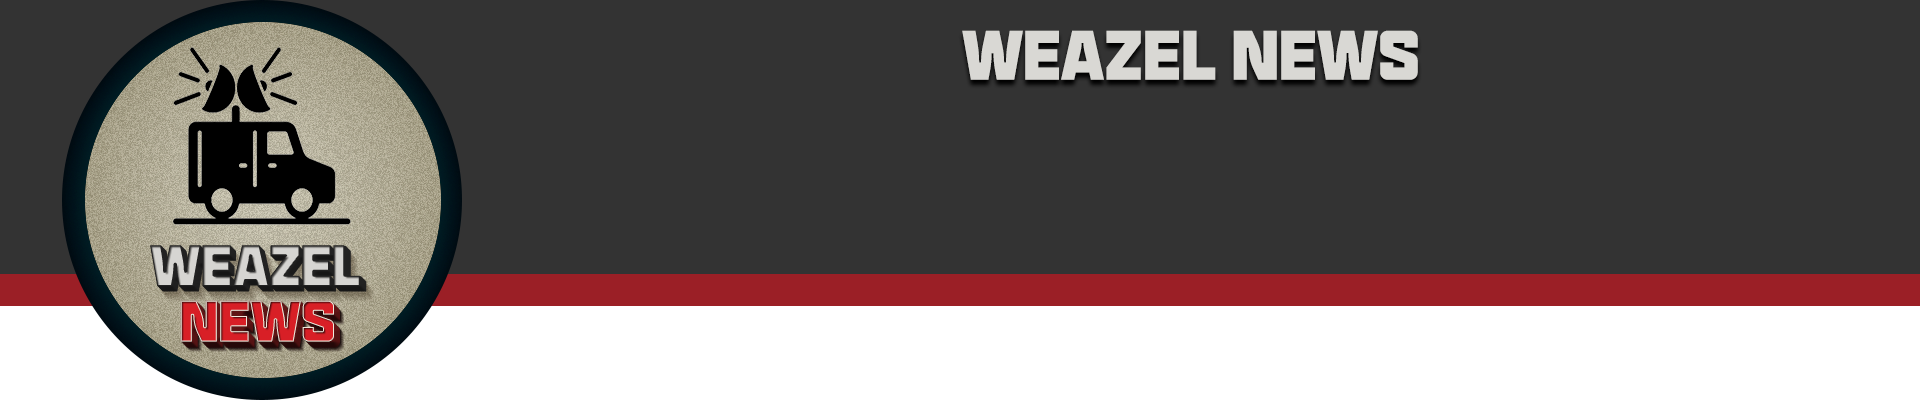
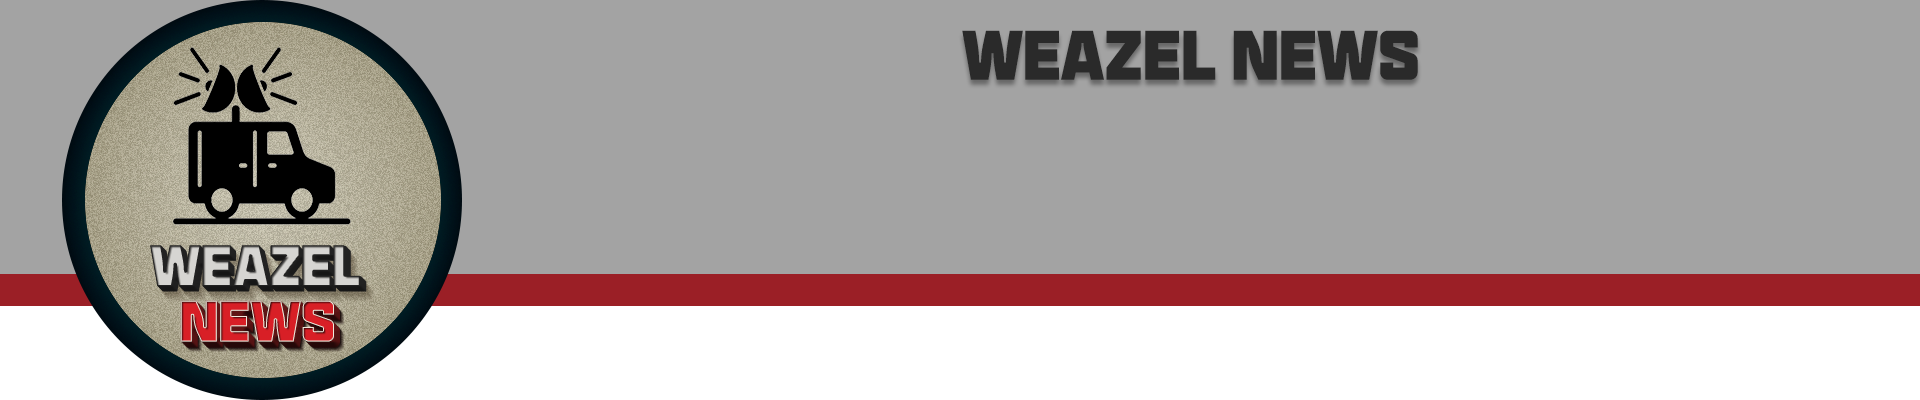
update

diff --git a/js/header.js b/js/header.js
@@ -10,10 +10,11 @@ onload = () => {
   canvas.height = image.naturalHeight;
   ctx.drawImage(image, 0, 0);
   ctx.textAlign = 'center';
-  ctx.fillStyle = '#d9d8d4';
+  ctx.fillStyle = '#2a2a2a';
+  // a3a3a3
   // Draw cached Text
   ctx.shadowOffsetY = 5;
-  ctx.shadowColor = 'rgba(0,0,0, 1)';
+  ctx.shadowColor = '#696969';
   ctx.shadowBlur = 5;
   // Text starts centered at 1190
   ctx.font = '72px BTBrikRegular';
@@ -25,11 +26,11 @@ onload = () => {
 input1.addEventListener('keyup', () => {
   ctx.clearRect(0, 0, canvas.width, canvas.height);
   ctx.shadowOffsetY = 0;
-  ctx.shadowColor = 'rgba(0,0,0, 1)';
+  ctx.shadowColor = '#000';
   ctx.shadowBlur = 5;
   ctx.drawImage(image, 0, 0);
   ctx.shadowOffsetY = 5;
-  ctx.shadowColor = 'rgba(0,0,0, 1)';
+  ctx.shadowColor = '#696969';
   ctx.shadowBlur = 5;
   ctx.font = '72px BTBrikRegular';
   ctx.fillText(input1.value.toUpperCase().trim(), 1200, 160);
@@ -39,11 +40,11 @@ input1.addEventListener('keyup', () => {
 input2.addEventListener('keyup', () => {
   ctx.clearRect(0, 0, canvas.width, canvas.height);
   ctx.shadowOffsetY = 0;
-  ctx.shadowColor = 'rgba(0,0,0, 1)';
+  ctx.shadowColor = '#000';
   ctx.shadowBlur = 5;
   ctx.drawImage(image, 0, 0);
   ctx.shadowOffsetY = 5;
-  ctx.shadowColor = 'rgba(0,0,0, 1)';
+  ctx.shadowColor = '#696969';
   ctx.shadowBlur = 5;
   ctx.font = '72px BTBrikRegular';
   ctx.fillText(input1.value.toUpperCase().trim(), 1200, 160);

diff --git a/js/title.js b/js/title.js
@@ -10,10 +10,10 @@ onload = () => {
   ctx.drawImage(image, 0, 0);
   ctx.font = '52px BTBrikRegular';
   ctx.textAlign = 'start';
-  ctx.fillStyle = '#d9d8d4';
+  ctx.fillStyle = '#2a2a2a';
   // Draw cached Text
+  ctx.shadowColor = '#696969';
   ctx.shadowOffsetY = 3;
-  ctx.shadowColor = 'rgba(0,0,0,0.8)';
   ctx.shadowBlur = 4;
   // Text starts centered at 1190
   ctx.fillText(input.value.toUpperCase().trim(), 50, 50);
@@ -22,10 +22,11 @@ onload = () => {
 input.addEventListener('keyup', (e) => {
   ctx.clearRect(0, 0, canvas.width, canvas.height);
   ctx.shadowOffsetY = 0;
-  ctx.shadowColor = 'rgba(0,0,0,0.8)';
+  ctx.shadowColor = '#000';
   ctx.drawImage(image, 0, 0);
+  ctx.shadowColor = '#696969';
   ctx.shadowOffsetY = 3;
-  ctx.shadowColor = 'rgba(0,0,0,0.8)';
+  ctx.shadowBlur = 4;
   // Text starts centered at 1190
   ctx.fillText(e.target.value.toUpperCase().trim(), 50, 50);
 });

diff --git a/title.html b/title.html
@@ -25,7 +25,7 @@
         </button>
         <div class="collapse navbar-collapse" id="navbarNavAltMarkup">
           <div class="navbar-nav">
-            <a class="nav-link" href="./index.html">Header</a>
+            <a class="nav-link" href="./">Header</a>
             <span class="nav-link active">Title</span>
 
             <!-- Credits Span -->
